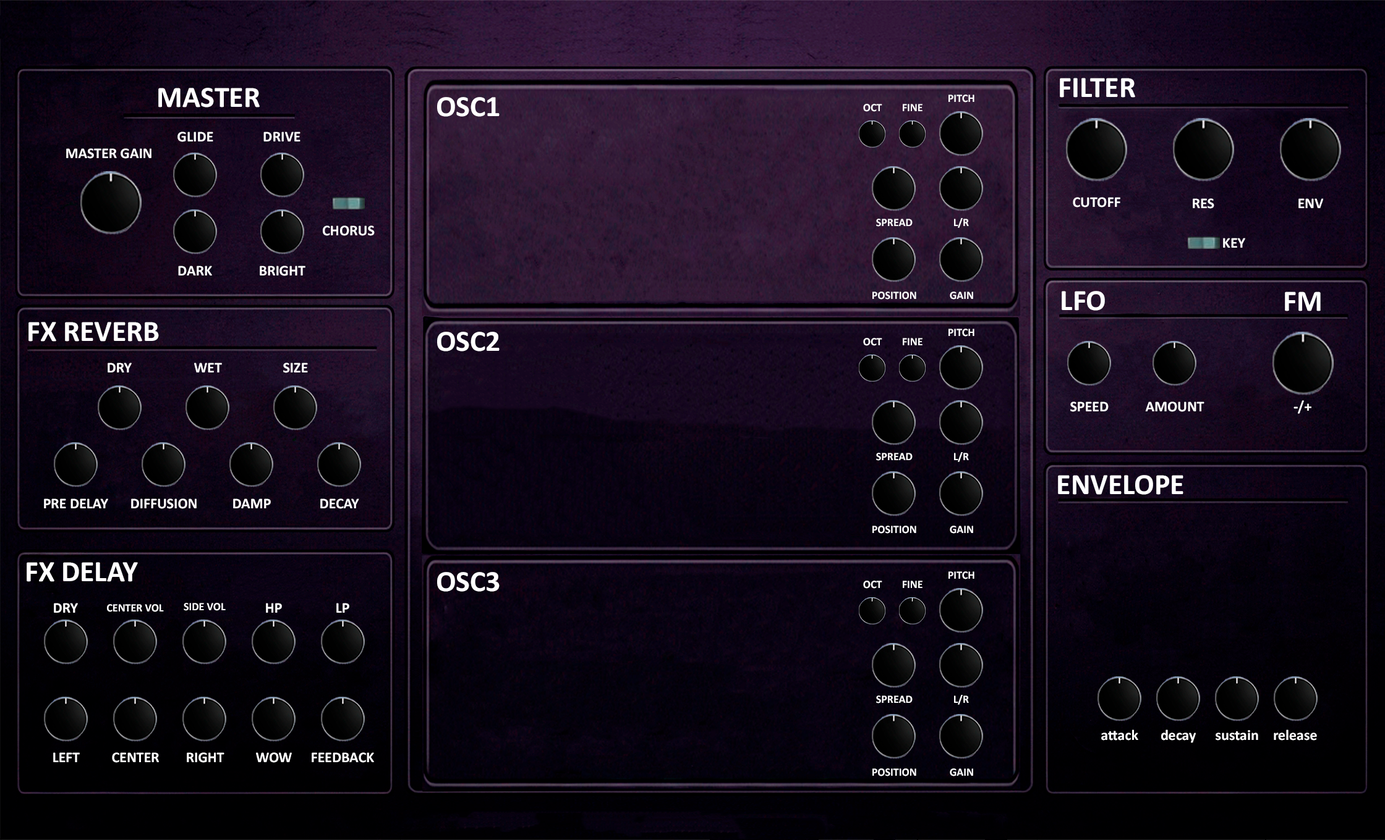
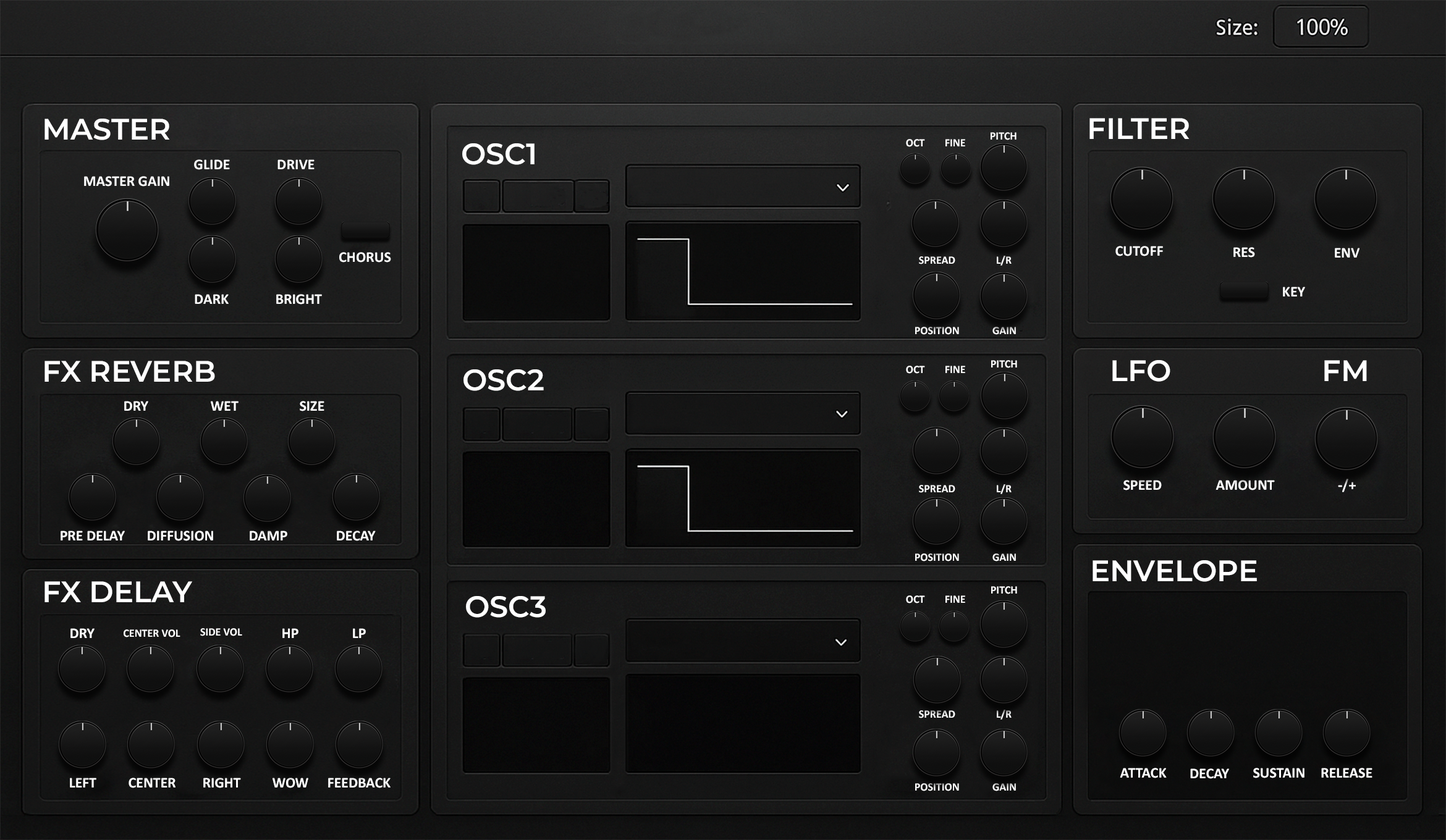
Corrección diseño
Se aplico un nuevo diseño de interfaz y se corrigieron errores de diseño.

diff --git a/Source/LayoutConstants.h b/Source/LayoutConstants.h
@@ -9,9 +9,9 @@
 namespace LayoutConstants
 {
     // --- Dimensiones Globales del Diseño ---
-    const int DESIGN_WIDTH = 2048;
+    const int DESIGN_WIDTH = 2340;
     const int DESIGN_HEIGHT = 1360; // Altura total con el teclado
-    const int KEYBOARD_HEIGHT = 180; // Altura del teclado en el diseño original
+    const int KEYBOARD_HEIGHT = 0; // Altura del teclado en el diseño original
     
     // --- Tamaños de Componentes (según tus medidas de Photoshop) ---
     const juce::Point<int> KNOB_LARGE = { 95, 96 };

diff --git a/Source/SynthTabComponent.cpp b/Source/SynthTabComponent.cpp
@@ -297,7 +297,7 @@ void SynthTabComponent::paint(juce::Graphics& g)
     // 3. Dibuja la imagen de fondo SOLAMENTE en el rea superior (guiArea).
     if (backgroundImage.isValid())
     {
-        g.drawImage(backgroundImage, guiArea.toFloat(), juce::RectanglePlacement::stretchToFit);
+        g.drawImage(backgroundImage, getLocalBounds().toFloat(), juce::RectanglePlacement::fillDestination);
     }
 }
 
